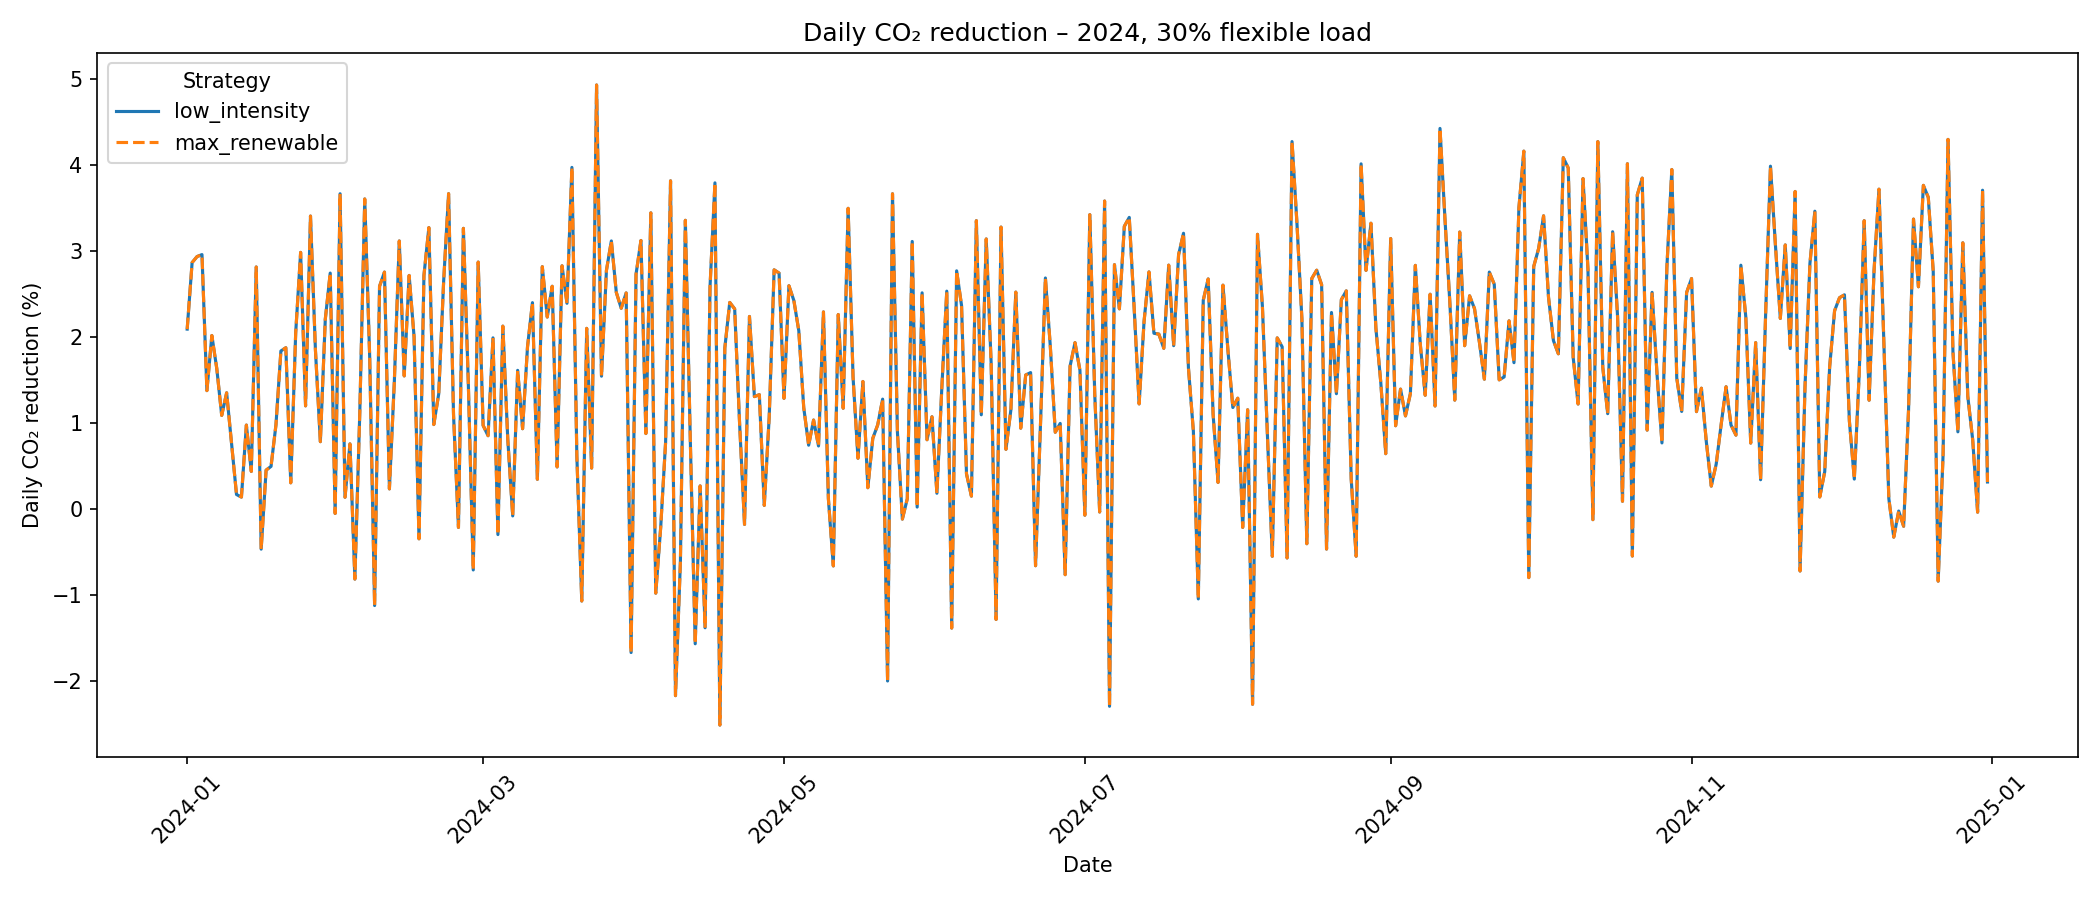
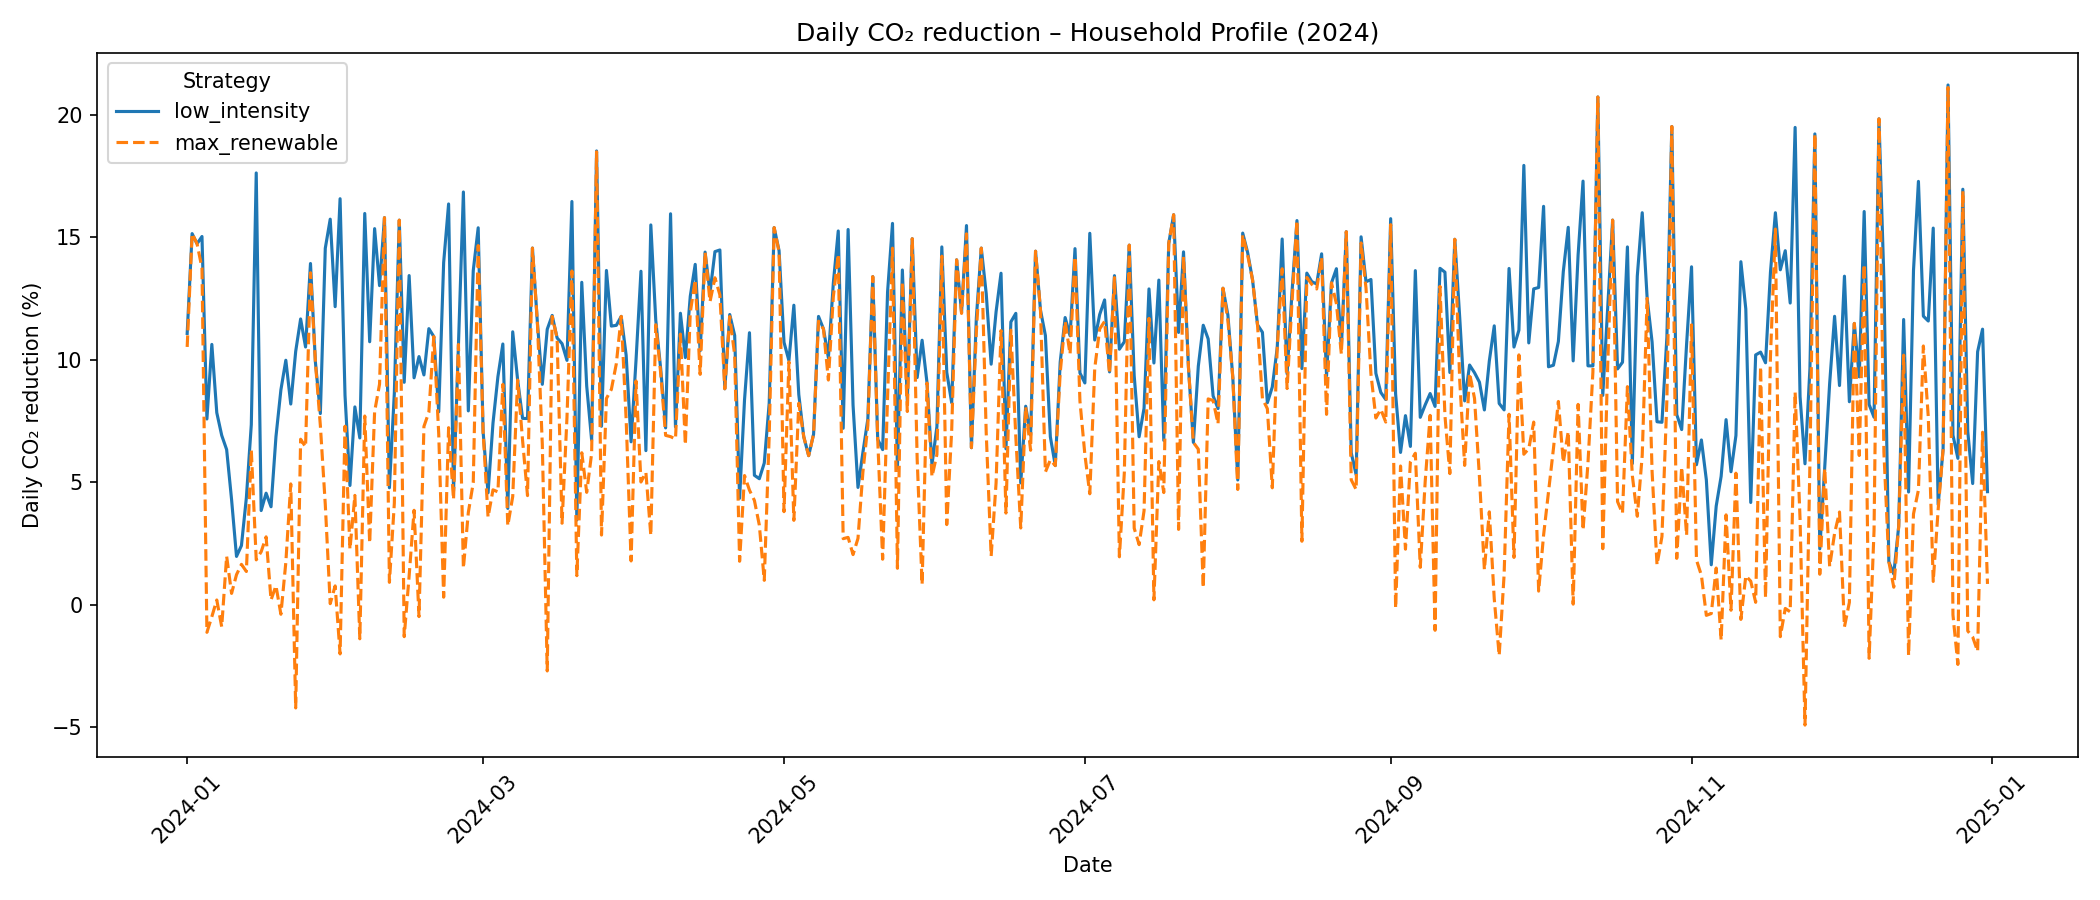
Updated README and Assets

Changed region(s): [[0.0929, 0.1556, 0.9595, 0.7156], [0.3714, 0.0, 0.65, 0.0622]]

diff --git a/README.md b/README.md
@@ -89,8 +89,8 @@ Under the same grid conditions (2024) and with 30% flexible household load:
   - Best days: **5%**
 
 - **EV owner (7 kWh/day charging, low_intensity strategy)**  
-  – Mean daily CO₂ reduction: **10.5%**  
-  – Best days: above **20%**
+  - Mean daily CO₂ reduction: **10.5%**  
+  - Best days: above **20%**
 
 In other words, adding a realistic EV charging profile increases the
 average load-shifting benefit by roughly an order of magnitude. The reason
@@ -190,16 +190,40 @@ Results:
 | **Min daily reduction**  | **-2.51%** |
 | **Strategies identical** | Yes |
 
+### EV Household Scenario (14 kWh/day + 7 kWh EV charging)
+
+To model a more realistic modern energy profile, a second scenario was added for
+an EV owner charging approximately 7 kWh/day. Because EV charging is a large and
+highly flexible load, shifting it into the cleanest hours has a significantly
+larger impact than in a standard household.
+
+**Key results (2024):**
+
+| Metric | Value |
+|--------|--------|
+| Mean daily reduction | **10.48%** |
+| Max daily reduction | **21.21%** |
+| Min daily reduction | **1.26%** |
+| Strategies identical | No - low_intensity performs better and is more consistent |
+
+**Interpretation:**  
+For EV owners, intelligent timing has an order-of-magnitude larger CO₂ impact.
+The low_intensity strategy is consistently beneficial, while the max_renewable
+strategy occasionally increases emissions.
+
+![Daily CO₂ reduction — EV Household (2024)](assets/daily_reduction_EV_2024.png)
+Daily CO₂ reductions for an EV owner (2024). Most days show 8 - 12% savings, with the cleanest days exceeding 20%.
+
 ### Why are both strategies identical?
 
 - The hours with the **lowest carbon intensity** are the same hours with the **highest renewable penetration**.
 - In a decarbonising grid, renewables shape the cleanest periods.
 - Therefore:  
-  **“Shift to renewable hours” = “Shift to low-carbon hours”**
+  **'Shift to renewable hours' = 'Shift to low-carbon hours'**
 
 ### Why are reductions modest?
 
-Because the modern UK grid (2020–2025) has:
+Because the modern UK grid (2020 - 2025) has:
 
 - flatter carbon intensity curves  
 - high renewable penetration  
@@ -207,7 +231,7 @@ Because the modern UK grid (2020–2025) has:
 
 Small gradients = small opportunity for shifting.
 
-Even so, a 1–2% reduction **per household** scales to hundreds of thousands of tonnes of CO₂ annually at the national level.
+Even so, a 1 - 2% reduction **per household** scales to hundreds of thousands of tonnes of CO₂ annually at the national level.
 
 ![Daily CO₂ Reduction Throughout 2024](assets/distribution_of_daily_CO2_2024.png)
 Distribution of daily CO₂ reductions. The distribution centers near 1.6%, with a right tail up towards 5% and a left tail down to -2.5%, demonstrating days when shifting increases emissions.
@@ -218,7 +242,7 @@ Distribution of daily CO₂ reductions. The distribution centers near 1.6%, with
 
 - Renewables dominate the cleanest periods  
 - The two strategies collapse into the same behaviour  
-- Grid is smoother → fewer “dirty peaks” → less advantage from timing shifts  
+- Grid is smoother → fewer 'dirty peaks' → less advantage from timing shifts  
 
 ### Negative savings
 
